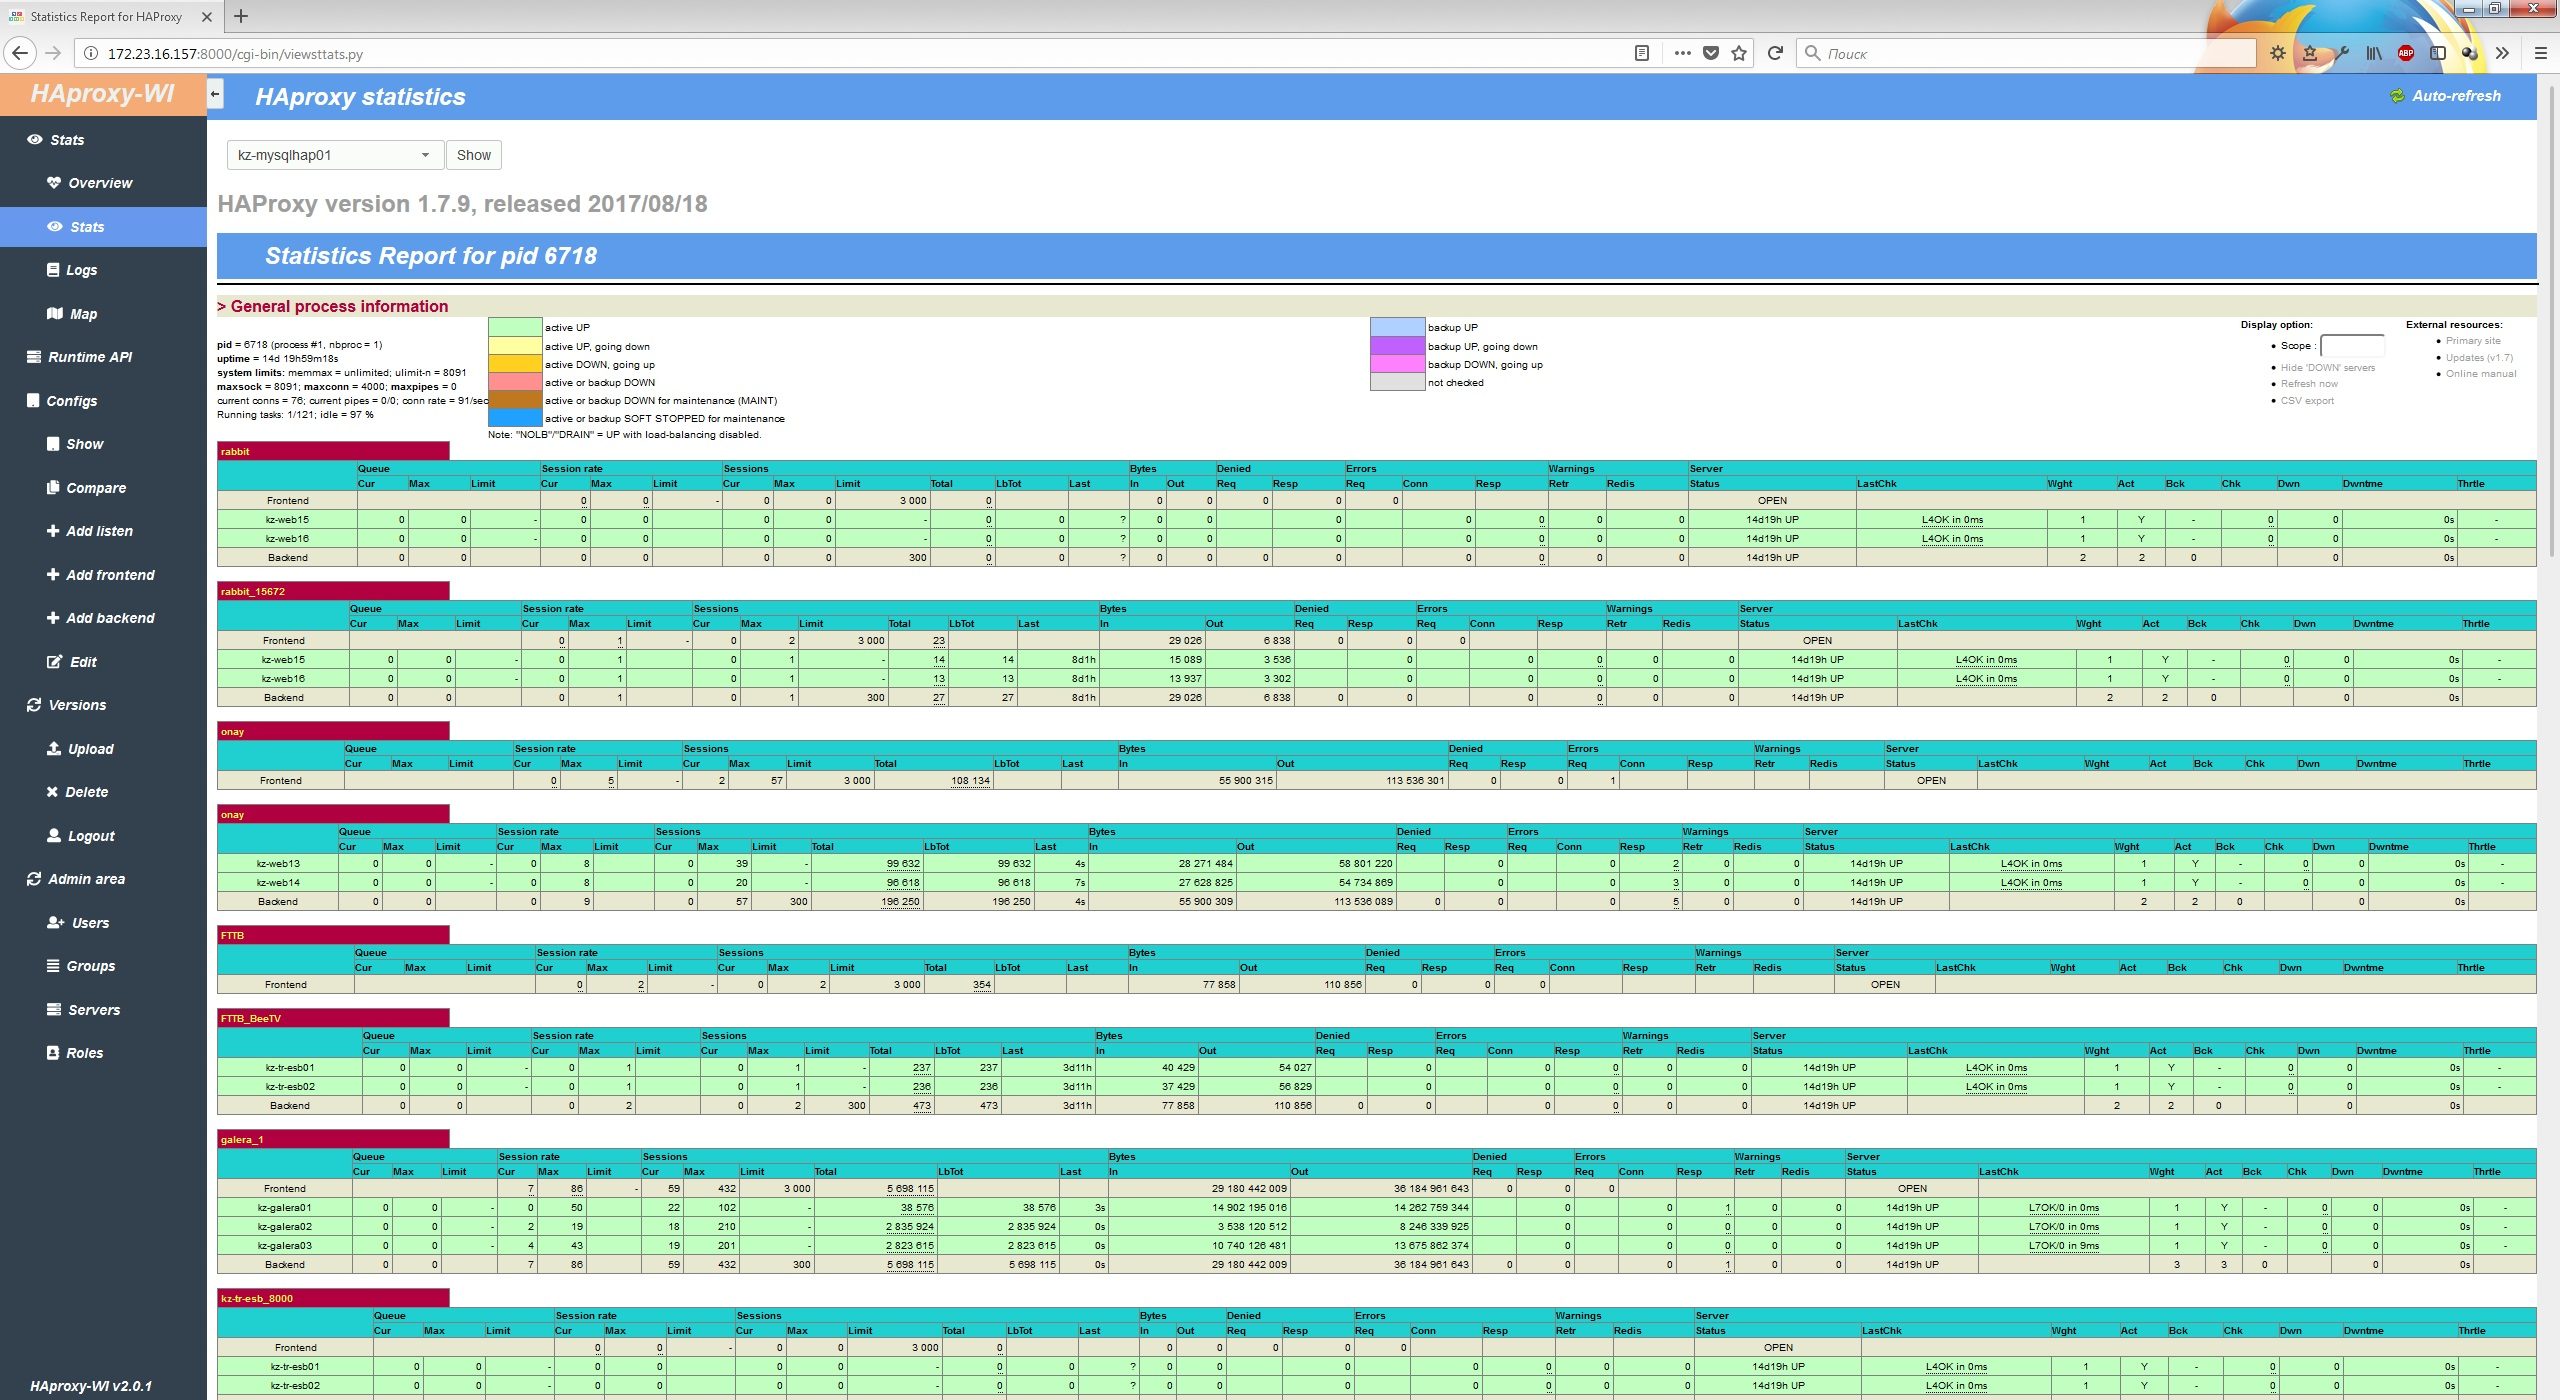
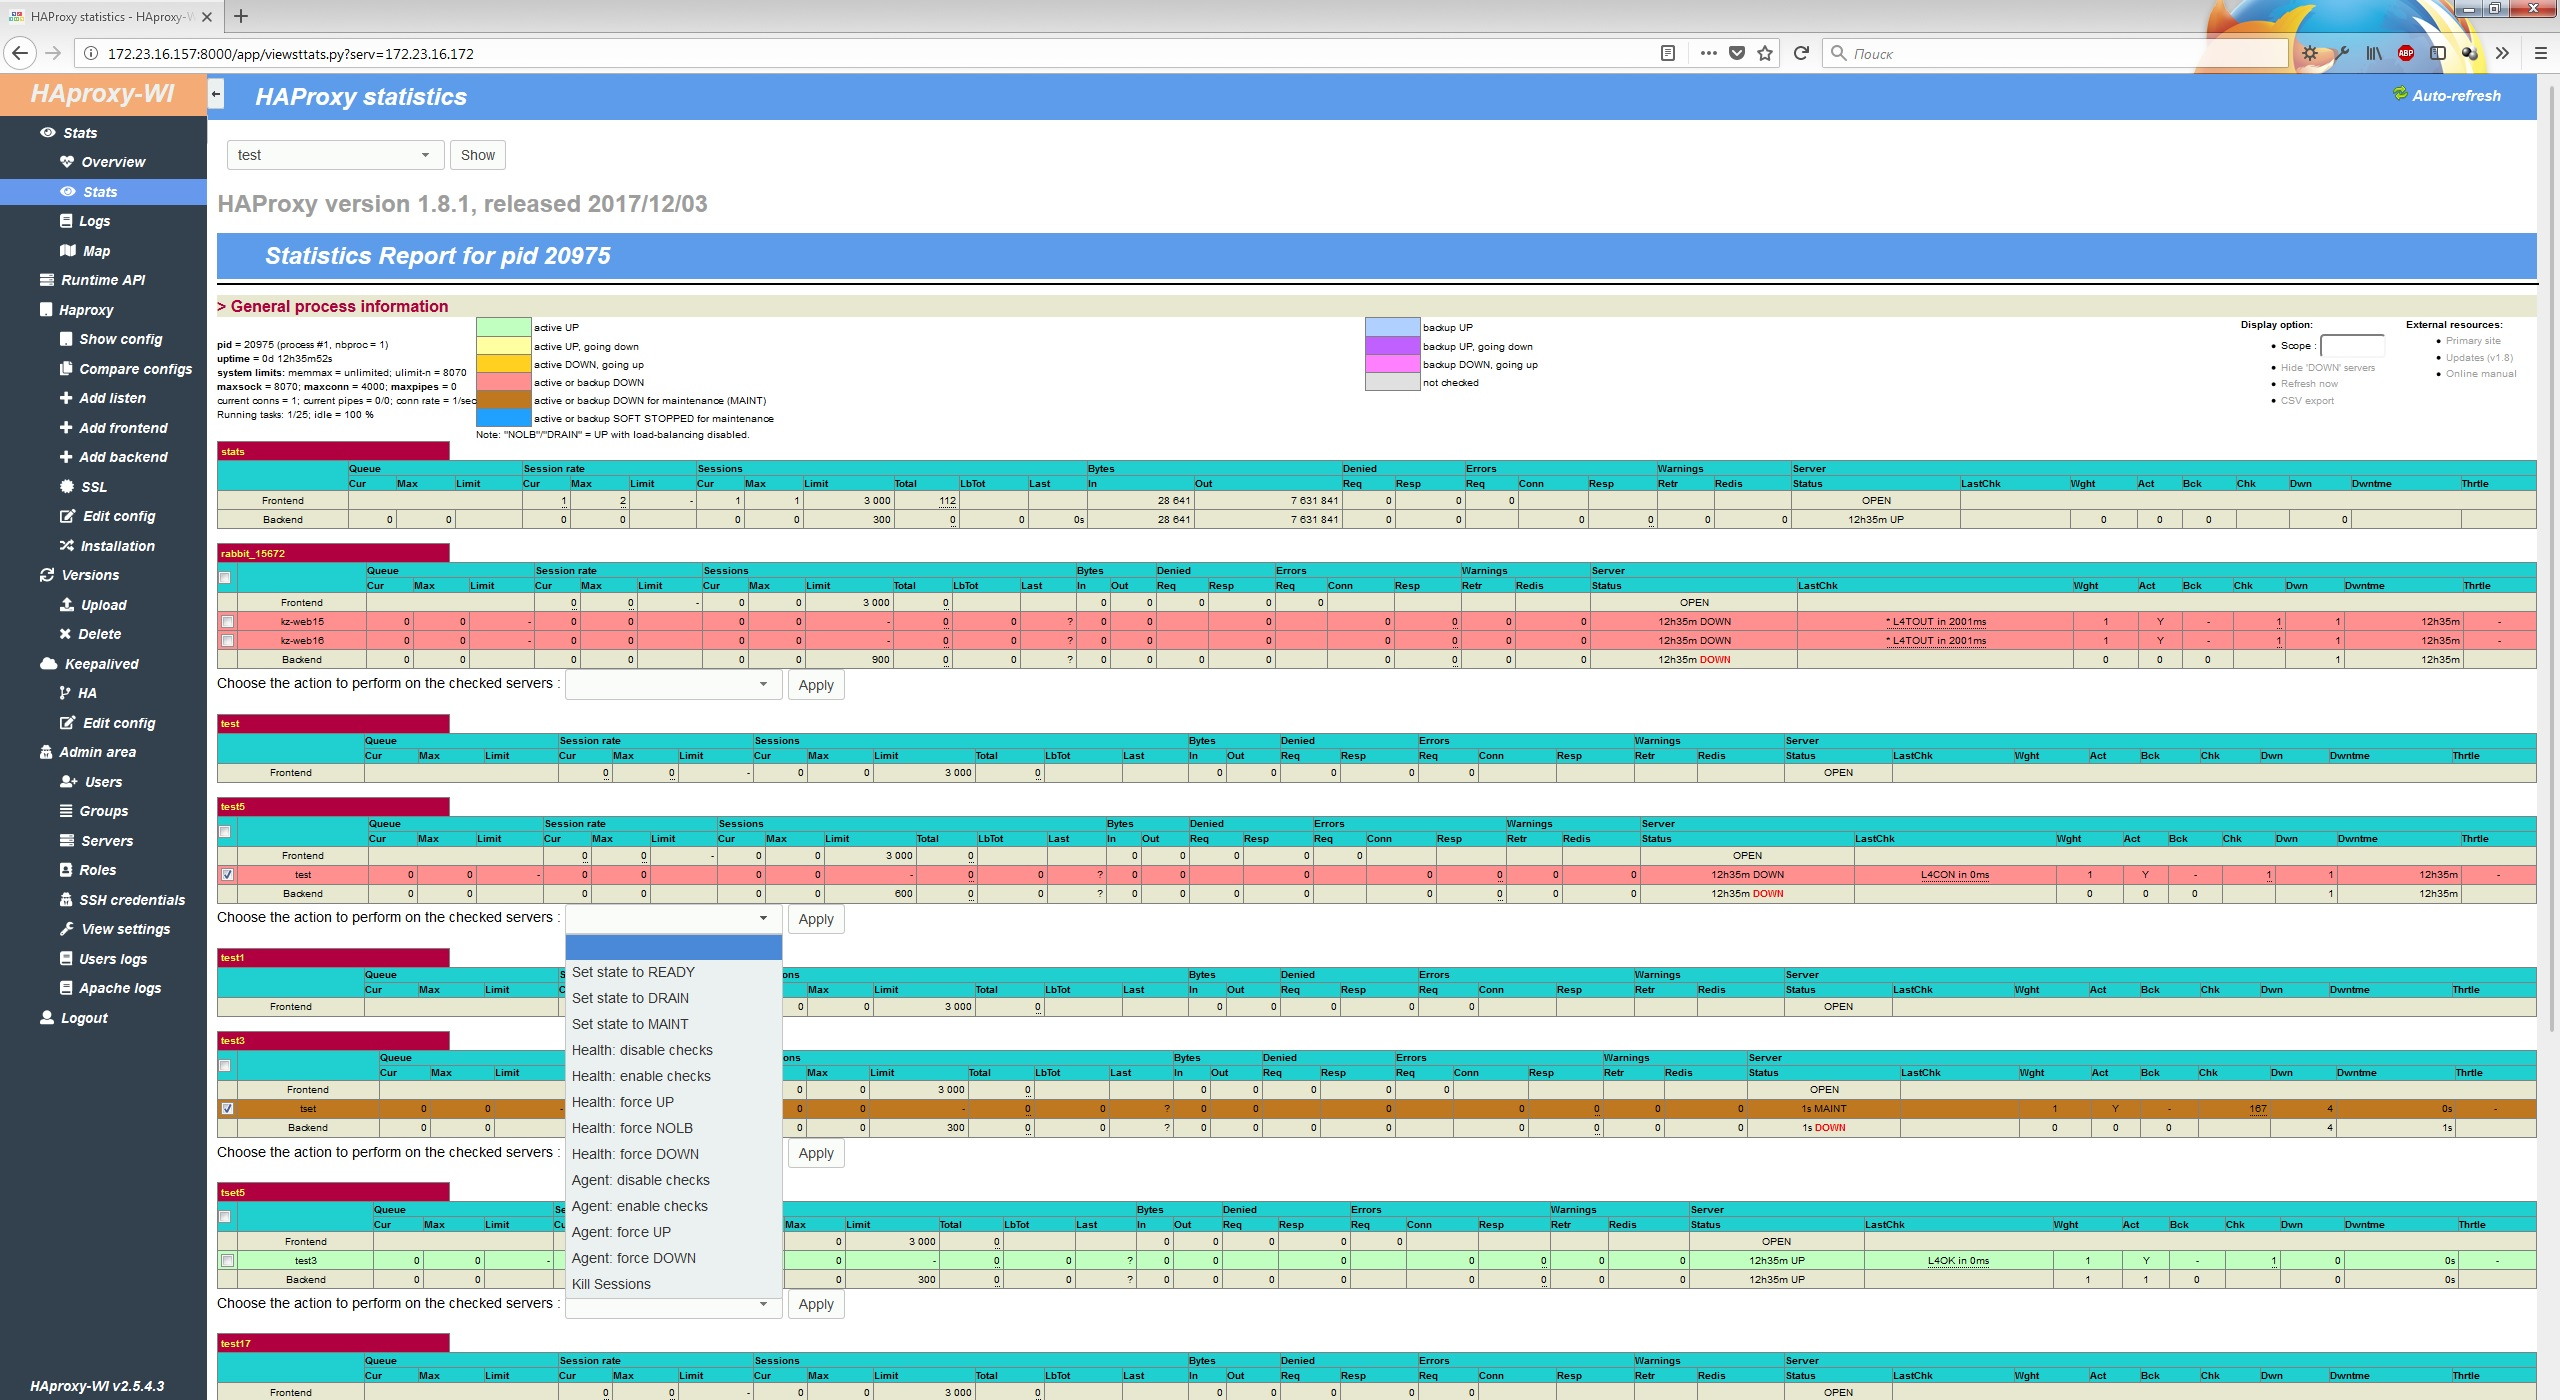
v2.5.4.3
Managing servers through stats page

diff --git a/app/templates/viewstats.html b/app/templates/viewstats.html
@@ -23,6 +23,8 @@
 	async function wait() {
 	  await sleep(2000);
 	  $('form').append('<input type="hidden" name="serv" value='+$("#serv").val()+'>');
+	  $( "input[type=submit], button" ).button();
+	  $( "select" ).selectmenu();
 	  
 	  $("form").submit(function() {
 			$.ajax({

diff --git a/app/options.py b/app/options.py
@@ -119,7 +119,6 @@ if act == "overviewServers":
 	
 if form.getvalue('action'):
 	import requests
-	import json
 	from requests_toolbelt.utils import dump
 	
 	haproxy_user = config.get('haproxy', 'stats_user')
